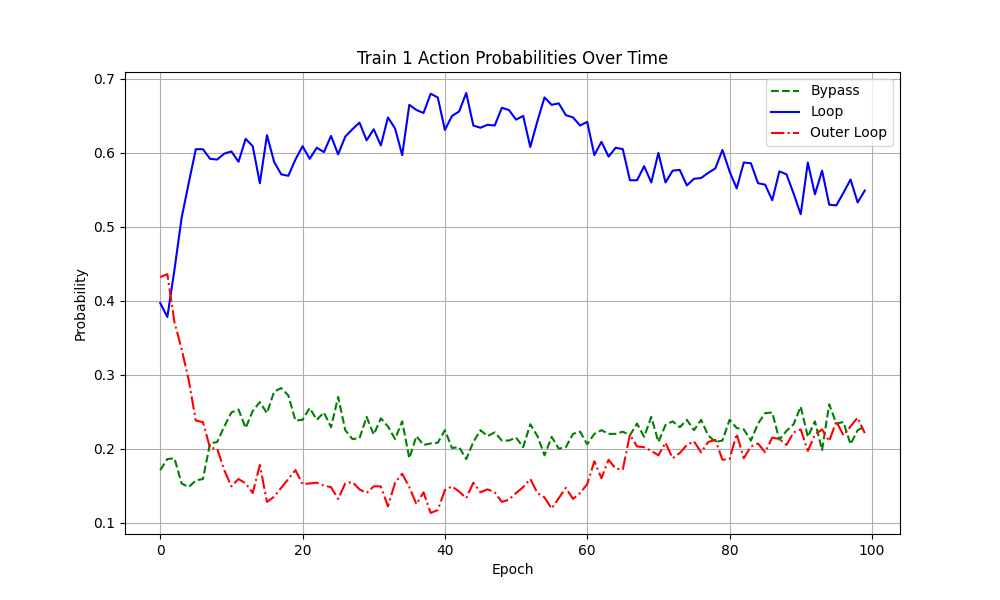
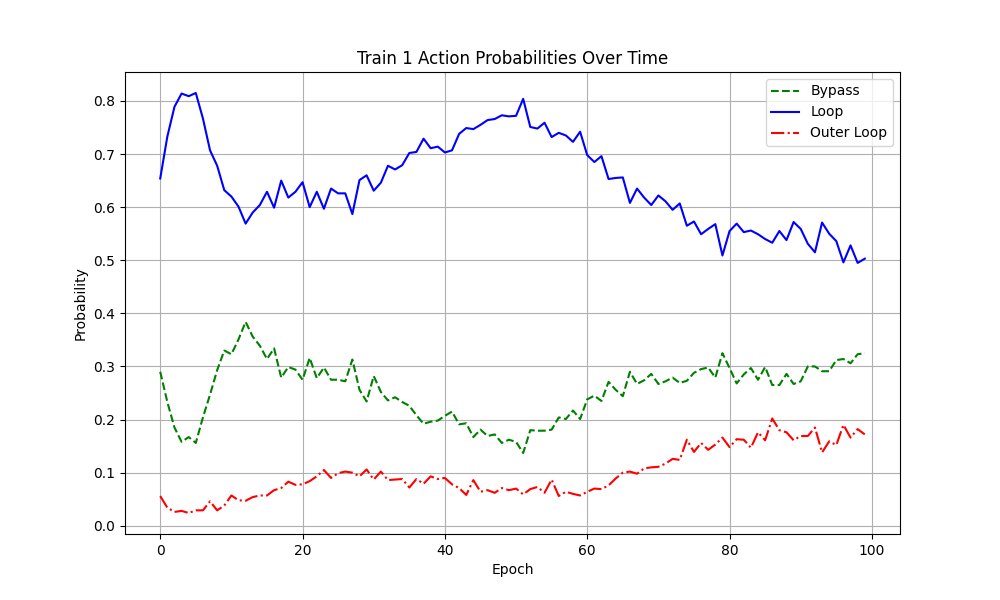
Revert "preformance tweaks"
This reverts commit f6e50af3d1726c897f9cff34a9e4fc61cb022527.

diff --git a/src/main.py b/src/main.py
@@ -45,11 +45,7 @@ def update(theta, p):
 
 alpha_values = [0.1]
 gamma_values = [0.9]
-
-epsilon_values = [1.0] # Epsilon starts at 1.0, decays overtime
-epsilon_end = 0.10   # Minimum exploration rate
-decay_rate = 0.995   # How fast epsilon decreases
-
+epsilon_values = [0.1]
 epoch_values = [100]
 
 results = []
@@ -123,7 +119,6 @@ for alpha, gamma, epsilon, epochs in itertools.product(alpha_values, gamma_value
         else:
             current_distance = simulate_train_loop_predictable(train1, train2, track, take_bypass_train1)
         
-        epsilon = max(epsilon_end, epsilon * decay_rate)
         distances[i] = current_distance
 
         if current_distance > previous_distance:
